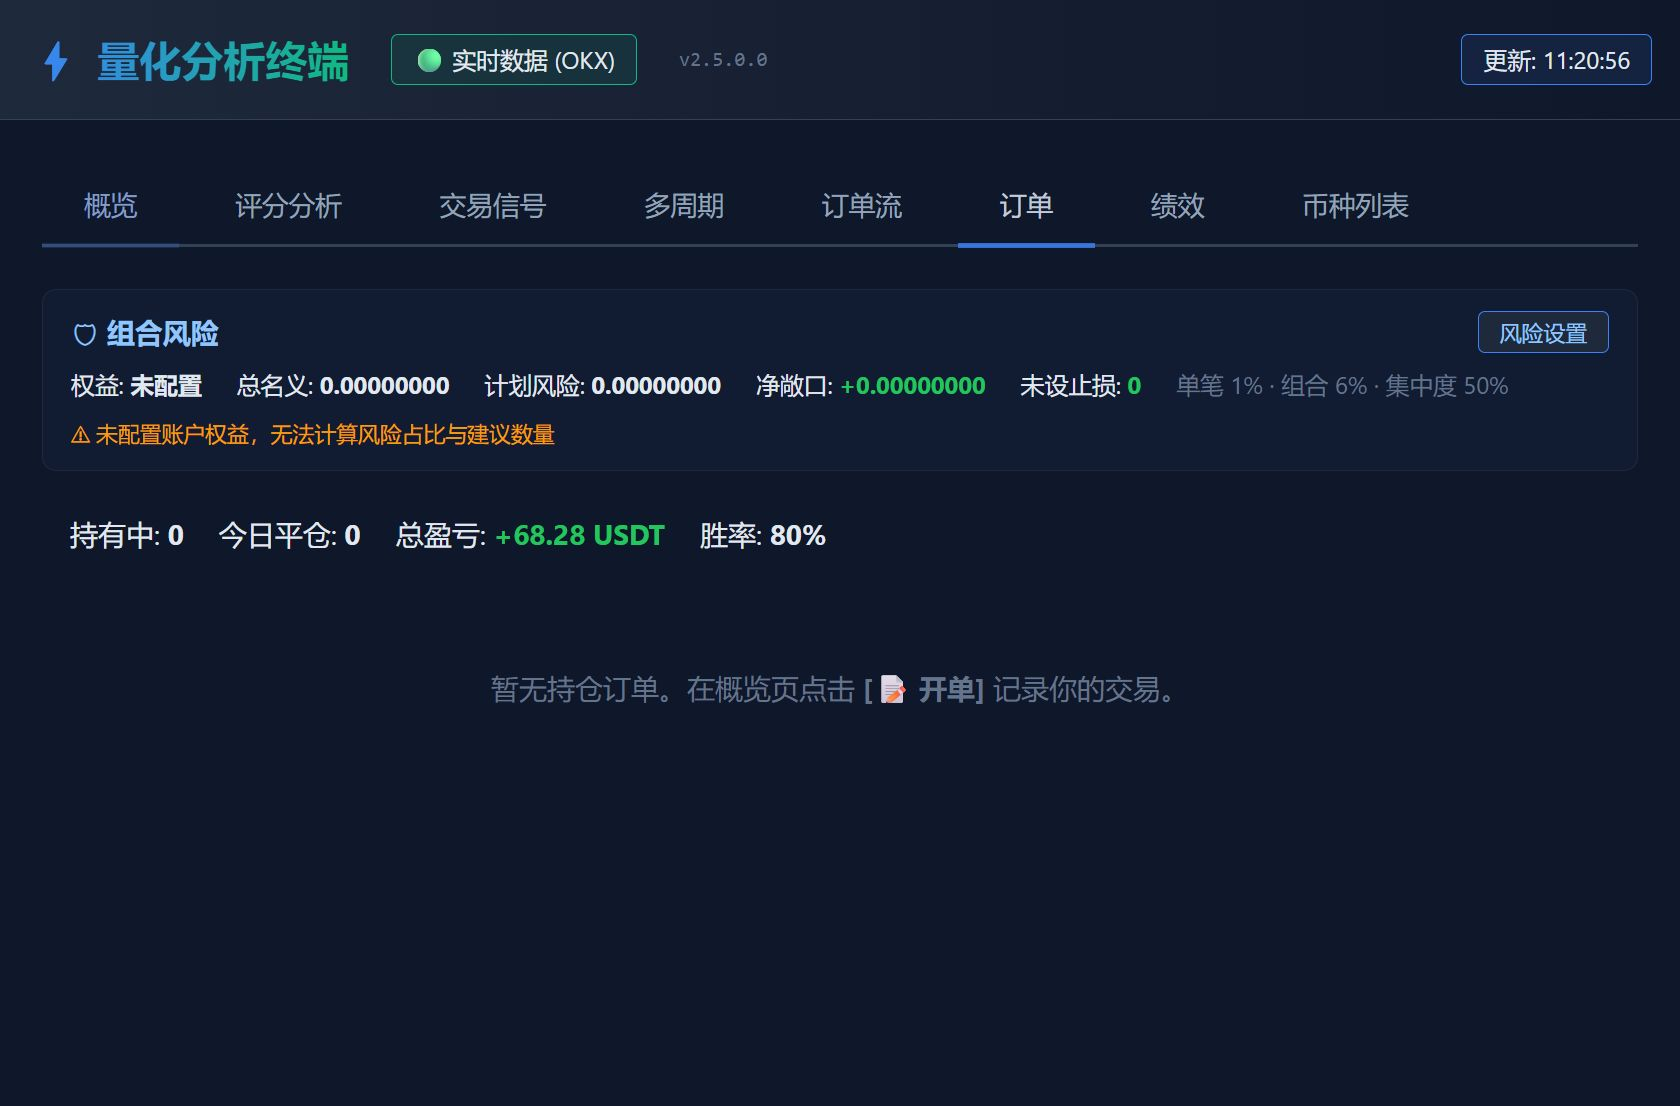
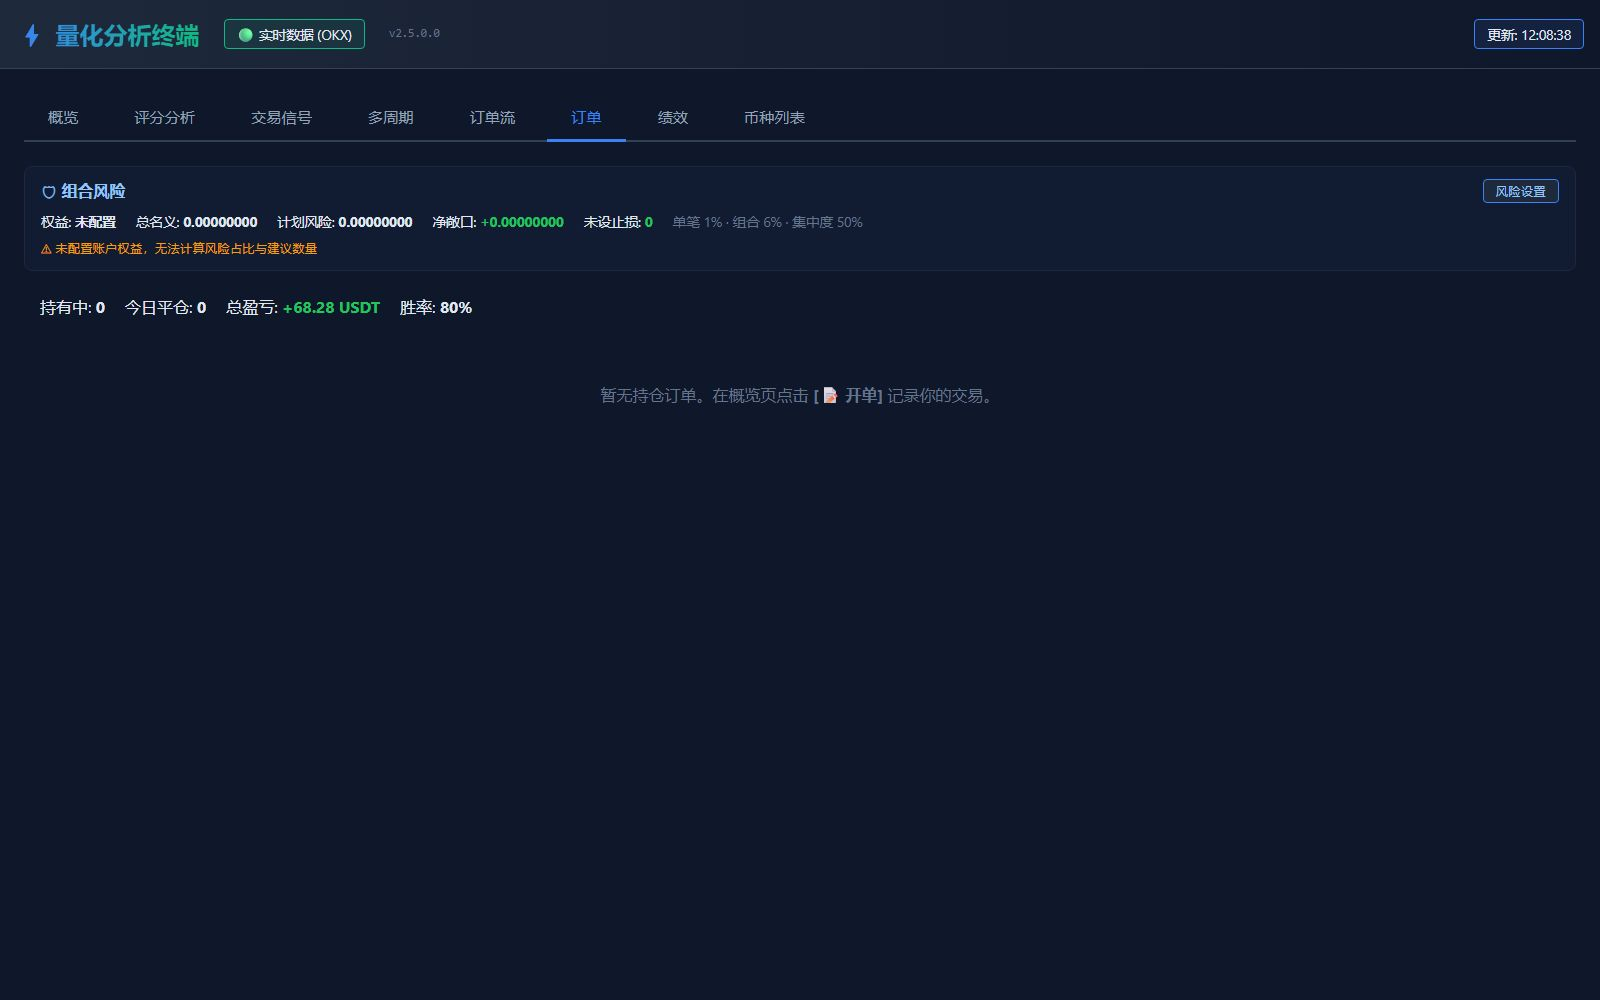
docs(readme): 改为面向使用者的产品说明并修正界面截图
截图改为 1600x1000 单屏视口，修复整页拼接导致的重复平铺；新增币种列表页；补全各页面字段与指标含义、常见问题与使用边界；移除评分权重、判定规则、实现结构、接口/部署等内部内容。

diff --git a/README.md b/README.md
@@ -1,45 +1,193 @@
-# OKEworkplace · 本地量化分析终端
+# 量化分析终端 · OKEworkplace
 
-一个运行在本机的加密资产分析工具：把实时行情、多周期趋势、订单流与风险信息集中到一处，帮助使用者形成结构化判断，并记录、复盘自己的交易决策。
+一个面向 OKX 永续合约的**本地行情分析与决策辅助工具**：把实时行情、综合评分、交易信号、多周期、订单流、手工记账、风险与绩效复盘集中在一个界面里。
 
-> 仅用于分析与研究，**不自动下单、不托管资金、不构成投资建议**。所有交易决策与风险由使用者自行承担。
+> **它不做什么**：不自动下单、不托管资金、不连接交易权限、不构成投资建议。
+> 交易仍由使用者在 OKX 手机端手工完成，程序负责给出结构化的判断依据与风险提示。
 
+<p>
+  <img alt="version" src="https://img.shields.io/badge/version-2.5.0.0-3b82f6">
+  <img alt="platform" src="https://img.shields.io/badge/platform-Windows%20%C2%B7%20local-10b981">
+  <img alt="data" src="https://img.shields.io/badge/data-OKX%20public%20market-0ea5e9">
+  <img alt="mode" src="https://img.shields.io/badge/mode-analysis%20only-f59e0b">
+</p>
+
+---
+
+## 界面一览
+
+### 概览
 ![概览](docs/images/overview.jpg)
 
-## 主要能力
+一屏看完所有关注币种的当期状态：方向、综合评分、置信度、买卖价、MACD、多周期方向与关键位。
+卡片右下角的「开单」只用于**本地记账**，不会向交易所发送任何订单。
 
-- **实时行情**：主流币种价格、涨跌与关键位监控，断流时保留上次结果并标注数据时间。
-- **评分与方向**：多维度综合打分，输出看多 / 看空 / 中性结论及触发原因。
-- **多周期视角**：短、中、长周期分别判断，提示周期之间的共振与分歧。
-- **订单流**：主动买卖量、大单与盘口失衡，观察短期资金压力。
-- **手工记账与风控**：记录自己的开平仓、止盈止损，汇总持仓风险与集中度。
-- **决策追溯与复盘**：保留历史判断依据，按方向、周期等维度统计胜率与盈亏表现。
+### 评分分析
 
-## 技术栈
+按币种查看综合评分的分项构成、风险等级与当前结论。分值越高代表多维信息越一致，不代表保证盈利。
 
-- 后端：Python · FastAPI · SQLite
-- 前端：原生 ES Module 单页界面，无需构建
-- 桌面：本地窗口运行，数据全部保存在本机
+### 交易信号
+![交易信号](docs/images/signals.jpg)
 
-## 快速开始
+只列出当前值得关注的机会：方向、触发的条件清单、评分、风险等级、置信度，以及方向是否刚刚发生变更。
 
-```bash
-python -m venv .venv
-.venv\Scripts\activate
-pip install -r backend/requirements.txt
-copy backend\.env.example backend\.env
-```
+### 多周期
+![多周期](docs/images/multi-timeframe.jpg)
 
-启动开发服务：
+同一币种在 15 分钟、1 小时、4 小时三个周期上的方向与评分，用于判断共振或分歧，并提示是否在逆大周期操作。
 
-```bash
-cd backend
-..\.venv\Scripts\python.exe -m uvicorn app.main:app --host 127.0.0.1 --port 8010
-```
+### 订单流
+![订单流](docs/images/orderflow.jpg)
 
-打开 `http://127.0.0.1:8010` 即可使用。
+按币种展示主动买卖压力、净额与比率、CVD、盘口深度失衡、最近大单与采样覆盖情况，帮助判断短周期资金方向。
 
-## 说明
+### 订单与风控
+![订单与风控](docs/images/orders-risk.jpg)
 
-- 项目数据与配置均只保存在本地，不会上传到任何服务器。
-- 不保存、不打印、不提交任何 API 密钥等敏感信息。
+本地手工记账与组合风险面板：总名义价值、计划风险、净敞口、未设止损数量、单笔/组合风险占比与集中度。
+持仓可设置止损止盈，价格触及时会生成提醒事件（仅提醒，不代为下单）。
+
+### 绩效
+![绩效](docs/images/performance.jpg)
+
+对历史信号做回验统计：胜率、方向准确率、平均净收益，并按币种、周期、多周期共振、订单流偏向分桶，用来评估「这套判断在什么环境下更可靠」。
+
+### 币种列表
+![币种列表](docs/images/watchlist.jpg)
+
+管理关注列表：搜索、添加、移除与别名维护。所有页面都基于这份列表刷新。
+
+---
+
+## 功能地图
+
+| 页面 | 你会看到什么 | 适合用来做什么 |
+|---|---|---|
+| 概览 | 方向、评分、置信度、买卖价、MACD、多周期方向、关键位 | 快速扫一遍市场，找出值得进一步看的币种 |
+| 评分分析 | 综合评分、分项表现、风险等级 | 理解某个币种为什么得分高或低 |
+| 交易信号 | 条件清单、方向、评分、风险、置信度 | 决定今天有哪些机会值得人工复核 |
+| 多周期 | 15m / 1H / 4H 的方向与评分、共振或分歧 | 避免只看单一周期造成误判 |
+| 订单流 | 主动买卖量、净额、CVD、盘口失衡、大单 | 判断短周期资金是偏多还是偏空 |
+| 订单 | 组合风险、手工持仓、止损止盈、平仓统计 | 记录自己的交易并控制风险 |
+| 绩效 | 胜率、方向准确率、平均净收益、分类分桶 | 复盘这套判断在不同环境下的表现 |
+| 币种列表 | 关注币种与别名 | 定制自己关心的市场范围 |
+
+---
+
+## 页面上的参数是什么意思
+
+### 方向与评分
+
+| 字段 | 含义 |
+|---|---|
+| 方向 | 当前判断：**做多 / 做空 / 中性**；中性表示多空信息不一致，建议观望 |
+| 评分 | 0-100 的综合分，由**趋势、动量、成交量、持仓量、资金费率**五类市场信息综合而成；分数越高代表各类信息越一致 |
+| 档位 | 界面会给出文字档位（如强势 / 中性 / 弱势），用于快速理解分数区间，而不是精确的交易阈值 |
+| 置信度 | 当前判断所依据的条件完整度与一致度，百分比越高表示依据越充分 |
+| 风险等级 | 低 / 中 / 高，综合波动与位置给出，仅作提示 |
+| 方向变更 | 该币种的方向刚刚发生切换，需要重新评估而不是沿用旧结论 |
+
+> 评分是「信息一致程度」的度量，不是收益预测；分数高也可能亏损，分数低也可能上涨。请结合风险与自身规则使用。
+
+### 行情与指标
+
+| 字段 | 含义 |
+|---|---|
+| 买价 / 卖价 | 当前盘口最优买价与卖价；两者之差为价差 |
+| MACD | 动量指标，界面同时显示数值与多头/空头状态，用于观察动能变化 |
+| RSI | 相对强弱指标，界面标注超买 / 超卖 / 健康区间 |
+| EMA | 指数均线，界面提示价格与均线的相对位置及排列关系 |
+| ATR | 平均真实波幅，用于衡量近期波动大小 |
+| 标记价 / 指数价 / 价差 | 合约标记价格、现货指数价格，以及两者的偏离 |
+| 关键位 | 近期支撑/阻力参考位，以及当前价格距该位的百分比 |
+| 多周期方向 | 15m / 1H / 4H 各自的方向；全部一致称为共振，方向相反会提示周期分歧或逆大周期 |
+| 持仓量（OI） | 市场未平仓合约规模的变化，用于判断资金是进场还是离场 |
+| 资金费率 | 永续合约多空之间周期性支付的费用，极端正值或负值常反映市场拥挤 |
+
+### 订单流
+
+| 字段 | 含义 |
+|---|---|
+| 窗口 | 统计所用的时间窗口（默认 5 分钟） |
+| 主动买 / 主动卖 | 窗口内以卖价成交（主动买）与以买价成交（主动卖）的数量 |
+| 净额 Delta | 主动买 − 主动卖；正数偏多，负数偏空 |
+| Delta 比率 | 净额占窗口总成交的比例，便于跨币种比较 |
+| 窗口 CVD / 本次进程 CVD | 累计成交量差：窗口内累计值，以及程序启动以来的累计值 |
+| 盘口深度与失衡 | 买卖盘挂单厚度的对比，用于观察即时支撑/压力 |
+| 大单 | 窗口内金额较大的逐笔成交 |
+| 采样 / 可回顾窗口 / 缺口 | 数据质量标记：采样表示按 REST 轮询聚合；缺口表示该时间段可能有漏采 |
+| 成交笔数 / 覆盖率 / 最近更新 | 采样是否充分、数据新旧程度 |
+
+### 订单与风控
+
+| 字段 | 含义 |
+|---|---|
+| 权益 | 你在「风险设置」里填写的手工记账本金，未填写时显示“未配置” |
+| 总名义价值 | 所有持仓按当前价格折算的合约价值合计 |
+| 计划风险 | 按各持仓的入场价与止损价估算的潜在亏损合计 |
+| 净敞口 | 多头名义价值 − 空头名义价值；正数偏多，负数偏空 |
+| 未设止损 | 尚未填写止损价的持仓数量，建议保持为 0 |
+| 单笔风险 % | 单笔交易允许亏损占权益的比例上限 |
+| 组合风险 % | 全部持仓的计划风险合计占权益的比例上限 |
+| 集中度 | 单一币种名义价值占组合的比例，用于避免过度集中 |
+| 持有中 / 今日平仓 / 总盈亏 / 胜率 | 本地手工记账的持仓数、当日平仓数、累计盈亏与胜率 |
+| 止损价 / 止盈价 | 手工填写的风控价位，触及后只生成提醒事件，不会自动平仓 |
+| 建议数量 | 根据权益、单笔风险比例与开仓/止损价差估算的参考数量，仅提示 |
+
+### 绩效
+
+| 字段 | 含义 |
+|---|---|
+| 胜率 | 已回验信号中取得正收益的比例 |
+| 方向准确率 | 方向判断正确的比例（不计盈亏大小） |
+| 平均净收益 | 每次信号的平均收益，**已扣除双边手续费与滑点** |
+| 预测总数 / 已回验 / 待回验 | 历史信号总量与回验进度 |
+| 数据不足 / 无效数据 / 取数失败 | 因历史数据不够或行情缺失而无法回验的数量，不代表策略表现 |
+| 按币种 / 按周期 | 不同币种、不同周期下的胜率与平均收益 |
+| 多周期共振 | 多个周期方向一致时入场的历史表现 |
+| 订单流偏向 | 按当时订单流状态（偏多 / 偏空 / 中性 / 无数据）分桶的表现 |
+| 样本量不足 | 该分组样本太少，暂不能据此下结论 |
+
+---
+
+## 数据与更新节奏
+
+- 行情约每 1 秒刷新，评分与信号约每 2 秒更新。
+- 网络或代理异常时保留上一次数据，并在状态栏显示数据年龄或过期标记，不会伪造数据。
+- 订单流按短周期采样聚合；若采样中断，会显示缺口或过期提示，避免把不完整数据当成结论。
+- 绩效回验需要等待后续行情走完才能完成，刚刚出现的信号会显示为「待回验」。
+
+---
+
+## 常见问题
+
+**为什么看不到「实盘」页面？**
+当前版本不开放实盘账户功能，入口默认隐藏。程序只使用 OKX 公共行情，不需要任何 API Key。
+
+**为什么信号很少，甚至一个都没有？**
+信号只在方向明确、条件齐备时出现。中性或信息冲突时程序会主动保持沉默，这是设计目标而不是故障。
+
+**概览里的评分为什么普遍在 40-55 之间？**
+分数代表多维信息的一致程度。市场震荡、周期互相矛盾时分数自然偏低；分数整体偏高通常出现在趋势较顺畅的行情。
+
+**「权益未配置」是什么意思？**
+订单页的手工风控需要一个记账本金。点击「风险设置」填入后，才会显示风险占比与建议数量；它只是本地数字，不读取任何账户余额。
+
+**订单流显示「缺口」或「过期」还能用吗？**
+可以看方向，但应降低权重。缺口表示采样期间有中断，过期表示数据没有及时更新。
+
+**程序会自动下单或平仓吗？**
+不会。所有「开单 / 平仓 / 止损止盈」都是本地记录与提醒，不会向交易所发送任何交易指令。
+
+---
+
+## 使用边界
+
+- 本程序是**分析与决策辅助工具**，不承诺收益，不构成投资建议。
+- 所有交易决策与风险由使用者自行承担；请结合仓位管理与止损纪律使用。
+- 不保存、不展示、不索取任何 API Key、Secret 或 Passphrase。
+- 当前为本地测试版本，界面与功能可能继续调整。
+
+## 版本
+
+`2.5.0.0` · 2026-11
